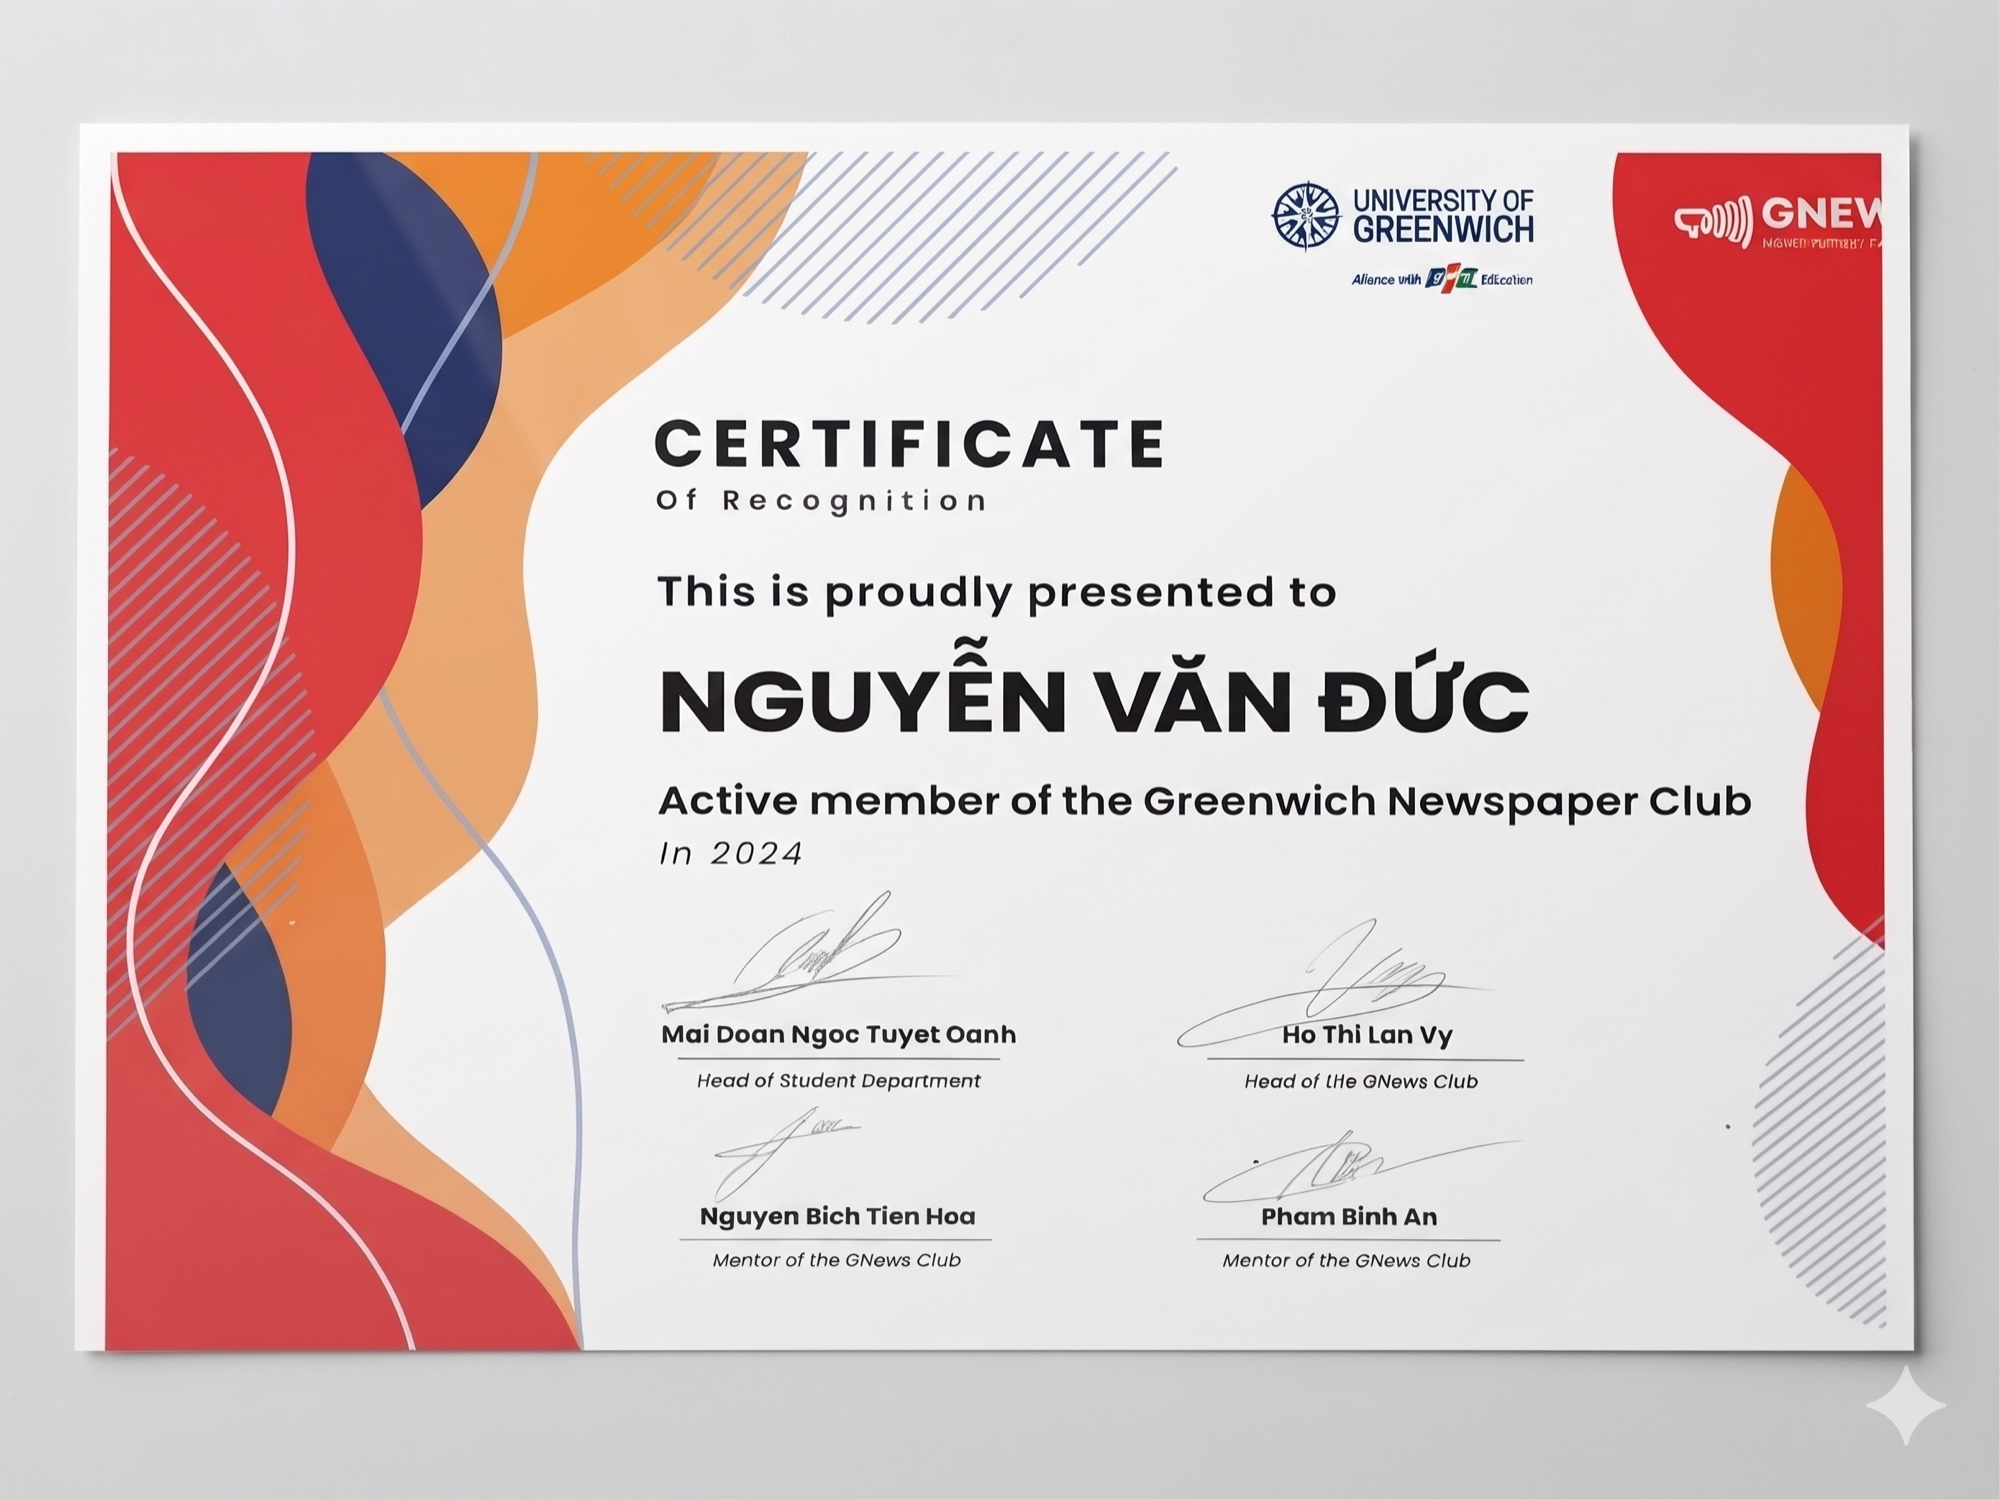
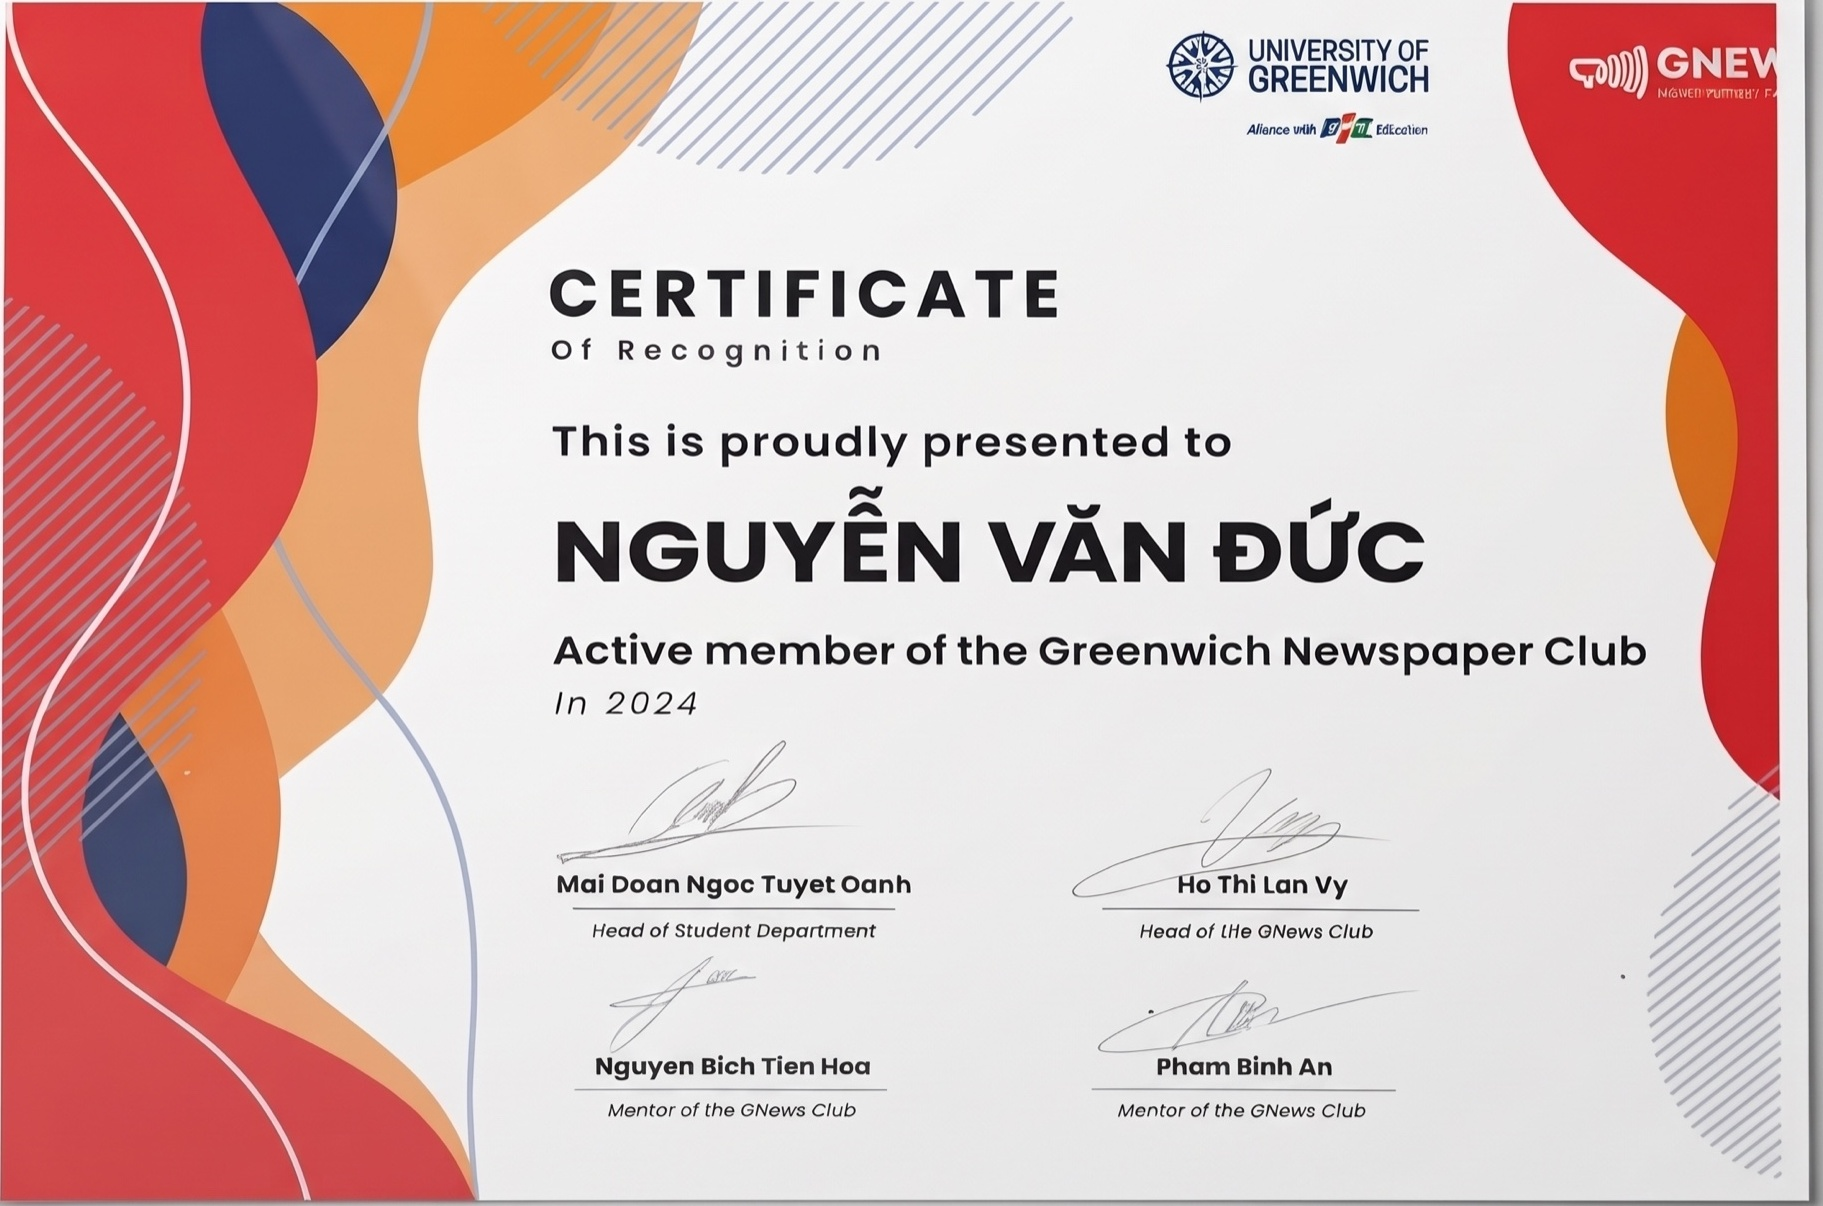
feat: fix pedestal interaction, crop certificates, update wall signage position, and refresh nomadix and mhike project images

diff --git a/src/components/cinematic/CinematicScenes.jsx b/src/components/cinematic/CinematicScenes.jsx
@@ -880,22 +880,14 @@ export const CinematicScenes = ({ scrollProgress = 0, mousePos = { x: 0, y: 0 },
           SCENE 04: HALL OF HONORS (3D EXHIBITION GALLERY - SPOTLIGHT AMPHITHEATER)
           Layout: 
           - Model in FOREGROUND CENTER, squarely admiring certificates
-          - 5 Exhibition Pedestals in deep background crescent amphitheater
-          - Overhead gentle ceiling spotlight shining down over the stage
+          - 6 Exhibition Pedestals in deep background crescent amphitheater
+          - Overhead theatrical spotlights shining down over each plinth
           - 100% clean, unobstructed 3D view (direct click on 3D pedestals)
       ========================================================================= */}
       <section 
-        className="absolute inset-0 flex flex-col items-center justify-end px-4 sm:px-8 lg:px-12 xl:px-16 pb-6 sm:pb-8 transition-opacity duration-300 pointer-events-none"
-        style={{ opacity: s4.opacity, pointerEvents: s4.pointerEvents }}
-      >
-        {/* Bottom subtle hint: leaves the upper 3D wall completely unobstructed for the mounted VERIFIED MILESTONES lettering */}
-        <div className="text-center w-full max-w-xl mx-auto select-none pointer-events-auto">
-          <p className="text-[10.5px] sm:text-xs text-[#dfc58d] font-mono bg-black/60 backdrop-blur-md px-4 py-1.5 rounded-full border border-[#dfc58d]/30 inline-flex items-center gap-2 shadow-xl">
-            <span className="w-1.5 h-1.5 rounded-full bg-[#dfc58d] animate-pulse" />
-            <span>Nhấp trực tiếp vào từng bệ bằng khen 3D để xem hồ sơ xác thực</span>
-          </p>
-        </div>
-      </section>
+        className="absolute inset-0 pointer-events-none transition-opacity duration-300"
+        style={{ opacity: s4.opacity }}
+      />
 
       {/* =========================================================================
           SCENE 05: FINAL TRANSMISSION (CONTACT & QUICK ADMIN DISPATCH)
@@ -1278,60 +1270,63 @@ export const CinematicScenes = ({ scrollProgress = 0, mousePos = { x: 0, y: 0 },
       ========================================================================= */}
       {inspectedCert && typeof document !== 'undefined' && createPortal(
         <div 
-          className="fixed inset-0 z-[9999] bg-black/85 backdrop-blur-md flex items-start justify-center p-4 sm:p-6 md:p-8 pt-8 sm:pt-12 pb-20 pointer-events-auto overflow-y-auto animate-fadeIn"
+          className="fixed inset-0 z-[9999] bg-black/90 backdrop-blur-md flex items-start justify-center p-4 sm:p-6 md:p-8 pt-8 sm:pt-12 pb-20 pointer-events-auto overflow-y-auto animate-fadeIn"
           onClick={() => setInspectedCert(null)}
         >
           <div 
-            className="relative w-full max-w-4xl flex flex-col items-center bg-white border border-black/10 rounded-3xl p-5 sm:p-7 shadow-2xl text-[#111113] my-4 sm:my-8"
+            className="relative w-full max-w-4xl flex flex-col items-center bg-[#111218] border border-white/15 rounded-3xl p-5 sm:p-7 shadow-2xl text-white my-4 sm:my-8"
             onClick={(e) => e.stopPropagation()}
           >
             <button
               onClick={() => setInspectedCert(null)}
-              className="absolute top-4 right-4 p-2 rounded-full bg-black/5 hover:bg-black/10 text-[#555] hover:text-black transition-colors cursor-pointer"
+              className="absolute top-4 right-4 p-2 rounded-full bg-white/10 hover:bg-white/20 text-neutral-300 hover:text-white transition-colors cursor-pointer"
             >
               <X className="w-4 h-4" />
             </button>
 
-            <img 
-              src={inspectedCert.image} 
-              alt={inspectedCert.title} 
-              className="max-h-[65vh] w-auto object-contain rounded-2xl border border-black/10 shadow-lg mb-4" 
-            />
+            {/* Archival Museum Matting Frame (No extra white padding) */}
+            <div className="w-full flex items-center justify-center p-2 sm:p-3 rounded-2xl bg-black/60 border border-white/10 mb-4 shadow-inner">
+              <img 
+                src={inspectedCert.image} 
+                alt={inspectedCert.title} 
+                className="max-h-[65vh] w-auto object-contain rounded-lg shadow-2xl" 
+              />
+            </div>
 
-            <div className="w-full text-left px-2">
+            <div className="w-full text-left px-1">
               <div className="flex flex-wrap items-center justify-between gap-2 mb-2">
                 <div className="flex items-center gap-2">
                   <span className={`text-[10px] font-mono font-bold px-2.5 py-1 rounded-full ${
                     inspectedCert.category === 'academic'
-                      ? 'bg-amber-100 text-amber-800 border border-amber-200'
-                      : 'bg-indigo-100 text-indigo-800 border border-indigo-200'
+                      ? 'bg-amber-500/15 text-amber-300 border border-amber-500/30'
+                      : 'bg-indigo-500/15 text-indigo-300 border border-indigo-500/30'
                   }`}>
                     {inspectedCert.category === 'academic' ? '🎓 Chuyên Ngành & Học Thuật' : '🎭 CLB & Kỹ Năng Mềm'}
                   </span>
-                  <span className="text-[10px] font-mono font-bold px-2 py-1 rounded-full bg-black/5 text-[#8c7355] border border-black/10">
+                  <span className="text-[10px] font-mono font-bold px-2 py-1 rounded-full bg-white/5 text-[#dfc58d] border border-white/10">
                     {inspectedCert.badge}
                   </span>
                 </div>
-                <span className="text-xs font-mono font-semibold text-[#888]">
+                <span className="text-xs font-mono font-semibold text-neutral-400">
                   Năm {inspectedCert.year}
                 </span>
               </div>
 
-              <h3 className="text-base sm:text-xl font-bold text-[#111113] font-sans mb-1">
+              <h3 className="text-base sm:text-xl font-bold text-white font-sans mb-1">
                 {inspectedCert.title}
               </h3>
 
-              <div className="flex flex-wrap items-center gap-x-4 gap-y-1 text-xs font-mono text-[#666] mb-2.5 font-medium">
-                <span>Cấp bởi: <strong className="text-[#222]">{inspectedCert.issuer}</strong></span>
+              <div className="flex flex-wrap items-center gap-x-4 gap-y-1 text-xs font-mono text-neutral-400 mb-2.5 font-medium">
+                <span>Cấp bởi: <strong className="text-neutral-200">{inspectedCert.issuer}</strong></span>
                 {inspectedCert.recipient && (
-                  <span>Khen tặng: <strong className="text-[#222]">{inspectedCert.recipient}</strong></span>
+                  <span>Khen tặng: <strong className="text-neutral-200">{inspectedCert.recipient}</strong></span>
                 )}
                 {inspectedCert.verificationRef && (
-                  <span className="text-[#8c7355]">Xác thực: <strong>{inspectedCert.verificationRef}</strong></span>
+                  <span className="text-[#dfc58d]">Xác thực: <strong>{inspectedCert.verificationRef}</strong></span>
                 )}
               </div>
 
-              <p className="text-xs sm:text-sm text-[#444] font-sans leading-relaxed bg-black/[0.02] p-3 rounded-2xl border border-black/[0.05]">
+              <p className="text-xs sm:text-sm text-neutral-300 font-sans leading-relaxed bg-white/[0.04] p-3 rounded-2xl border border-white/[0.06]">
                 {inspectedCert.description}
               </p>
             </div>

diff --git a/src/components/cinematic/CinematicCanvas.jsx b/src/components/cinematic/CinematicCanvas.jsx
@@ -574,10 +574,10 @@ function createMuseumExhibitionWall(signageTexture) {
   });
 
   // E. 3D Wall-Mounted Signage Plane (VERIFIED MILESTONES)
-  // Mounted directly onto the front face of the wall in perfect camera sightline
+  // Mounted directly onto the front face of the wall in perfect camera sightline (well below top navbar)
   const signageGeo = new THREE.PlaneGeometry(5.6, 1.40);
   const signageMesh = new THREE.Mesh(signageGeo, signageMat);
-  signageMesh.position.set(0, 0.96, wallZ + wallDepth / 2 + 0.008);
+  signageMesh.position.set(0, 0.62, wallZ + wallDepth / 2 + 0.008);
   group.add(signageMesh);
 
   return {
@@ -844,7 +844,9 @@ export const CinematicCanvas = ({ scrollProgress = 0, mousePos = { x: 0, y: 0 } 
       });
       const plinthMesh = new THREE.Mesh(plinthGeo, plinthMat);
       plinthMesh.position.y = ph / 2;
+      plinthMesh.userData = { certData: cert };
       pedestal.add(plinthMesh);
+      clickableMeshes.push(plinthMesh);
 
       // B. Base Dark Trim
       const baseGeo = new THREE.BoxGeometry(pw + 0.04, 0.03, pd + 0.04);
@@ -855,7 +857,9 @@ export const CinematicCanvas = ({ scrollProgress = 0, mousePos = { x: 0, y: 0 } 
       });
       const baseMesh = new THREE.Mesh(baseGeo, baseMat);
       baseMesh.position.y = 0.015;
+      baseMesh.userData = { certData: cert };
       pedestal.add(baseMesh);
+      clickableMeshes.push(baseMesh);
 
       // C. Top Brushed Brass Collar
       const topRimGeo = new THREE.BoxGeometry(pw + 0.02, 0.02, pd + 0.02);
@@ -866,7 +870,9 @@ export const CinematicCanvas = ({ scrollProgress = 0, mousePos = { x: 0, y: 0 } 
       });
       const topRimMesh = new THREE.Mesh(topRimGeo, topRimMat);
       topRimMesh.position.y = ph + 0.01;
+      topRimMesh.userData = { certData: cert };
       pedestal.add(topRimMesh);
+      clickableMeshes.push(topRimMesh);
 
       // D. Subtle Brass Plaque
       const plaqueTex = createPlaqueCanvas(cert.badge, cert.year, cert.title);
@@ -878,7 +884,9 @@ export const CinematicCanvas = ({ scrollProgress = 0, mousePos = { x: 0, y: 0 } 
       });
       const plaqueMesh = new THREE.Mesh(plaqueGeo, plaqueMat);
       plaqueMesh.position.set(0, ph * 0.52, pd / 2 + 0.003);
+      plaqueMesh.userData = { certData: cert };
       pedestal.add(plaqueMesh);
+      clickableMeshes.push(plaqueMesh);
 
       // E. Framed Certificate on Top (Satin Antique Gold, Archival Matte Paper)
       const frameGroup = new THREE.Group();
@@ -911,7 +919,9 @@ export const CinematicCanvas = ({ scrollProgress = 0, mousePos = { x: 0, y: 0 } 
       });
       const matMesh = new THREE.Mesh(matGeo, matMat);
       matMesh.position.set(0, fh / 2, fdepth / 2 + 0.001);
+      matMesh.userData = { certData: cert };
       frameGroup.add(matMesh);
+      clickableMeshes.push(matMesh);
 
       // Certificate Artwork Plane (Archival matte paper, zero glare)
       const certPlaneGeo = new THREE.PlaneGeometry(fw - 0.14, fh - 0.14);
@@ -1072,7 +1082,7 @@ export const CinematicCanvas = ({ scrollProgress = 0, mousePos = { x: 0, y: 0 } 
 
     // Dedicated Overhead Wall Wash Light highlighting the mounted letters
     const wallWashTarget = new THREE.Object3D();
-    wallWashTarget.position.set(0, 0.96, -2.72);
+    wallWashTarget.position.set(0, 0.62, -2.72);
     scene.add(wallWashTarget);
 
     const wallWashSpot = new THREE.SpotLight(0xfff3db, 0.0, 16.0, Math.PI / 3.4, 0.65, 1.1);
@@ -1094,7 +1104,14 @@ export const CinematicCanvas = ({ scrollProgress = 0, mousePos = { x: 0, y: 0 } 
     };
 
     const handlePointerMove = (e) => {
-      if (scene4FactorRef.current < 0.70) {
+      if (scene4FactorRef.current < 0.35) {
+        if (hoveredObject) {
+          document.body.style.cursor = 'default';
+          hoveredObject = null;
+        }
+        return;
+      }
+      if (e.target && e.target.closest && e.target.closest('nav, button, a, input, textarea, [role="button"], [role="dialog"]')) {
         if (hoveredObject) {
           document.body.style.cursor = 'default';
           hoveredObject = null;
@@ -1112,10 +1129,12 @@ export const CinematicCanvas = ({ scrollProgress = 0, mousePos = { x: 0, y: 0 } 
     };
 
     const handleClick = (e) => {
-      // 1. MUST only handle direct clicks on the canvas
-      if (e.target !== renderer.domElement && e.target !== container) return;
-      // 2. MUST only be active when firmly inside Scene 4
-      if (scene4FactorRef.current < 0.70) return;
+      // 1. MUST only be active when firmly inside Scene 4
+      if (scene4FactorRef.current < 0.35) return;
+      // 2. Ignore clicks on top navbar, buttons, modals, interactive UI
+      if (e.target && e.target.closest && e.target.closest('nav, button, a, input, textarea, [role="button"], [role="dialog"]')) {
+        return;
+      }
 
       const hits = getIntersects(e.clientX, e.clientY);
       if (hits.length > 0) {
@@ -1129,8 +1148,8 @@ export const CinematicCanvas = ({ scrollProgress = 0, mousePos = { x: 0, y: 0 } 
       }
     };
 
-    // Attach click strictly to renderer.domElement so UI clicks never bleed in
-    renderer.domElement.addEventListener('click', handleClick);
+    // Attach click and pointermove to window so direct clicks anywhere in Scene 4 raycast to pedestals
+    window.addEventListener('click', handleClick);
     window.addEventListener('pointermove', handlePointerMove);
 
     // 7. Load /models/character-cinematic.glb with Draco
@@ -1411,9 +1430,7 @@ export const CinematicCanvas = ({ scrollProgress = 0, mousePos = { x: 0, y: 0 } 
       if (animId) cancelAnimationFrame(animId);
       window.removeEventListener('resize', handleResize);
       window.removeEventListener('pointermove', handlePointerMove);
-      if (renderer?.domElement) {
-        renderer.domElement.removeEventListener('click', handleClick);
-      }
+      window.removeEventListener('click', handleClick);
       document.body.style.cursor = 'default';
       if (renderer) {
         renderer.dispose();

diff --git a/src/data/portfolioData.js b/src/data/portfolioData.js
@@ -252,7 +252,24 @@ export const githubProjects = [
     tech: ["Node.js", "Express", "PostgreSQL (3NF)", "Redis", "Docker Compose", "JWT Auth", "RESTful APIs"],
     statusBadge: "Backend Complete · Mobile in Progress",
     statusType: "repo",
-    image: "/projects/nomadix-preview.svg",
+    image: "/projects/nomadix-1.png",
+    images: [
+      {
+        url: "/projects/nomadix-1.png",
+        title: "All-in-One Travel Hub",
+        caption: "Nomadix Travel Ecosystem — All-in-One Travel Hub for Flight/Hotel Discovery, Smart Bookings & Dynamic Itineraries"
+      },
+      {
+        url: "/projects/nomadix-2.png",
+        title: "Plan Together Collaborative Itinerary",
+        caption: "Plan Together — Real-Time Collaborative Itinerary Co-Creation, Group Voting & Schedule Sync"
+      },
+      {
+        url: "/projects/nomadix-3.png",
+        title: "Smart Split Group Expenses",
+        caption: "Smart Split & Expense Tracking — Multi-Currency Bill Division, Automatic Debt Simplification & Shared Travel Ledger"
+      }
+    ],
     githubUrl: "https://github.com/DucNgVan/nomadix-travel-platform",
     liveDemo: null,
     problem: "Travelers struggle with fragmented tools for itineraries, bookings, and community reviews, demanding a unified and resilient data service.",
